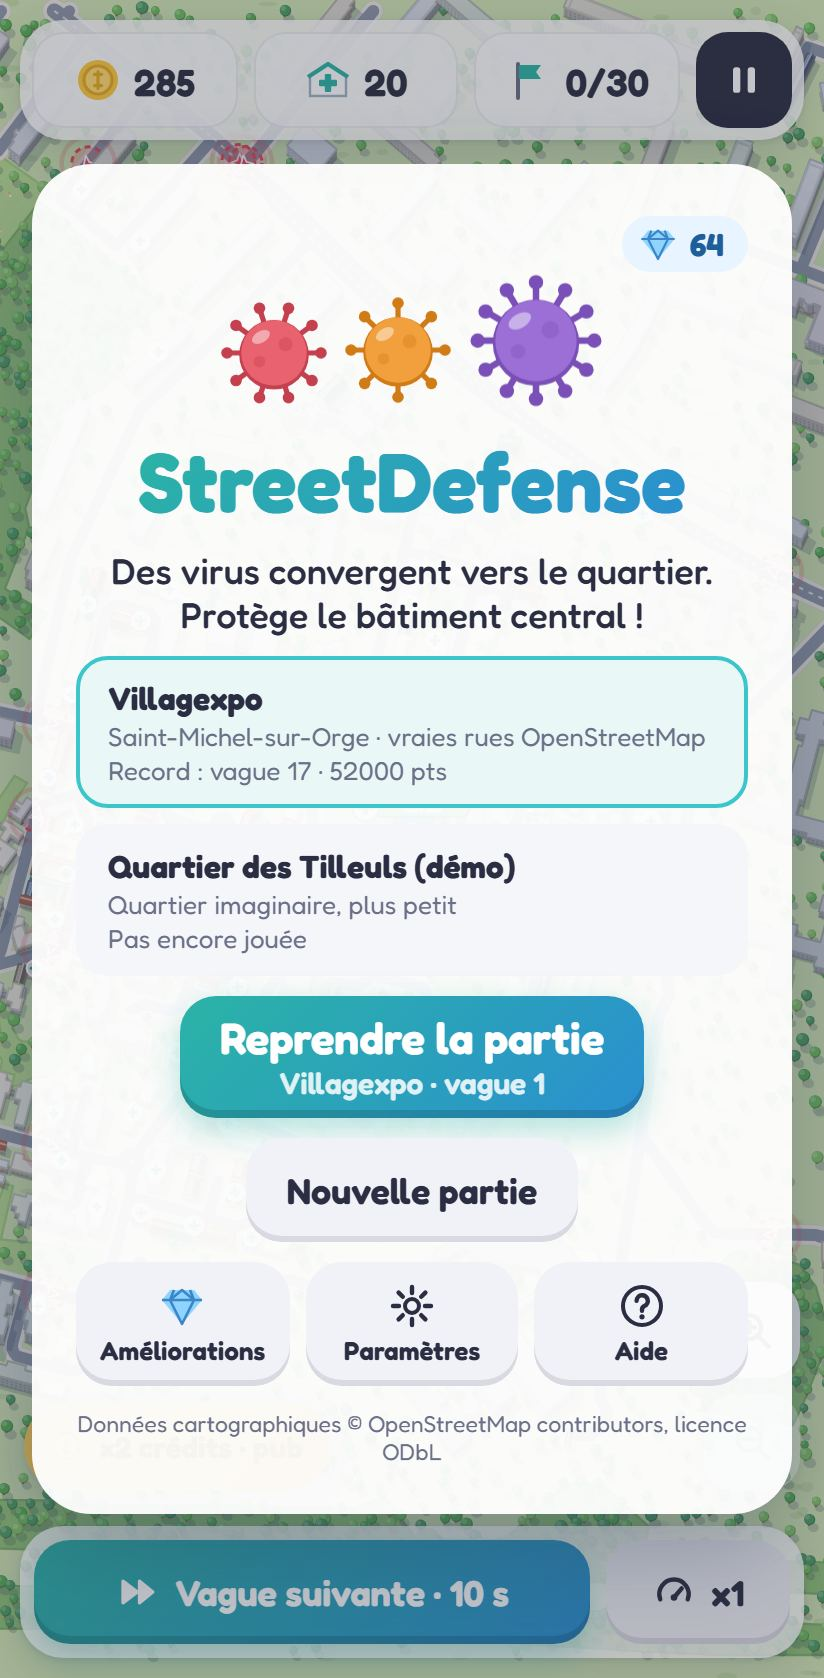
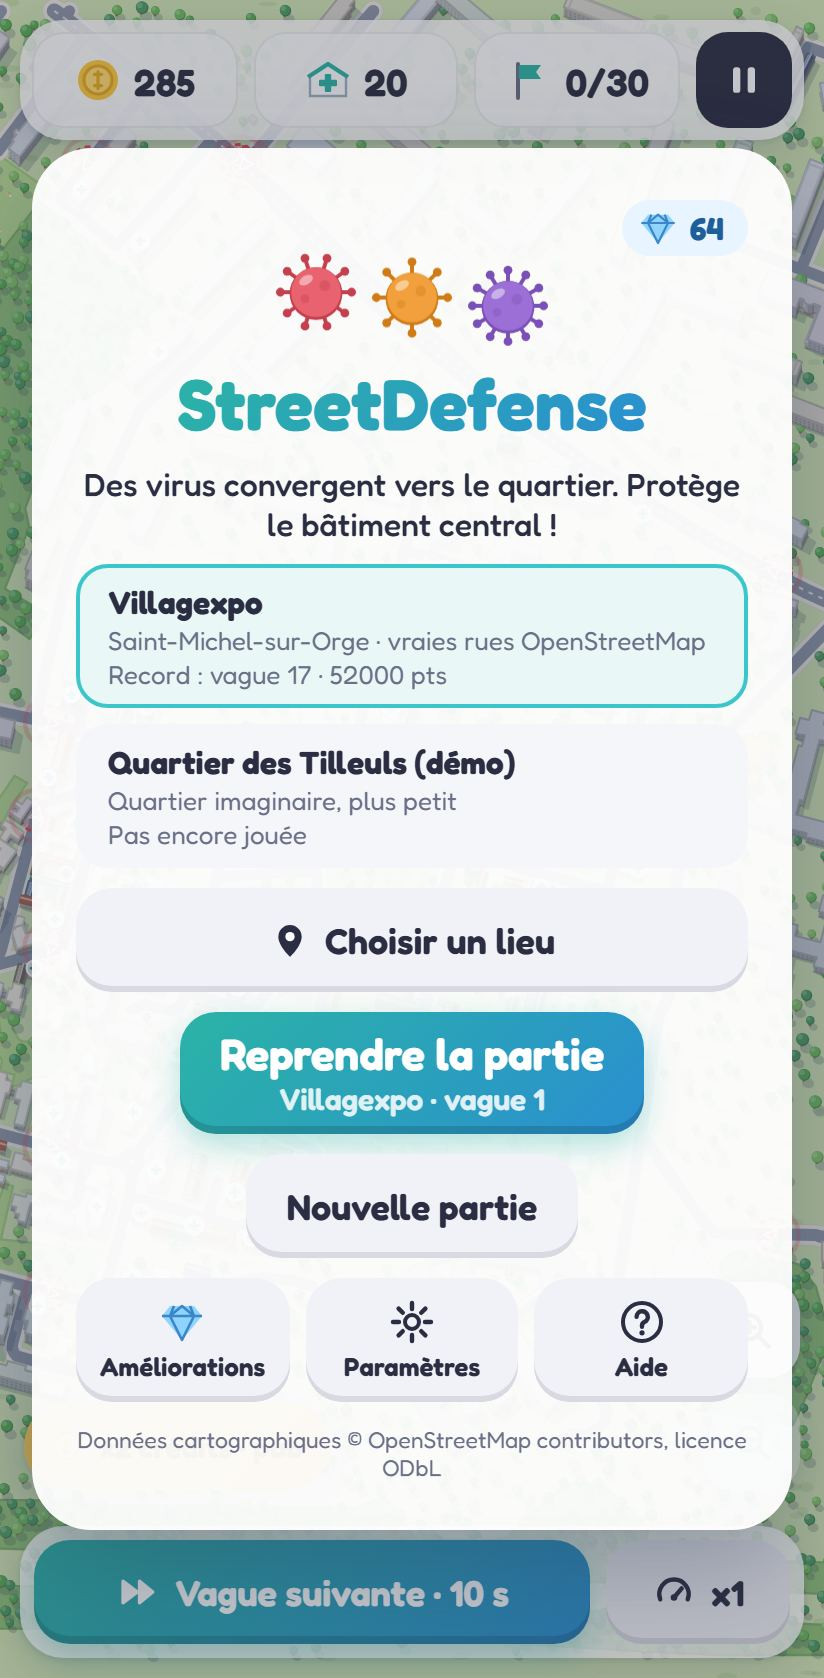
Captures du jalon 4 : choix du lieu, chargement, aperçu, carte créée
Les réponses de Nominatim et d'Overpass sont rejouées depuis le disque
(essai des 20 adresses s'il a été lancé, sinon l'import de Villagexpo) :
les captures ne dépendent pas du réseau. Configuration : section places
et osm.addressMaxDistance documentées ; commande test-places.

diff --git a/scripts/captures.ts b/scripts/captures.ts
@@ -4,12 +4,17 @@
 //
 //   npm run captures
 
-import { mkdir, writeFile } from 'node:fs/promises';
+import { createHash } from 'node:crypto';
+import { mkdir, readFile, writeFile } from 'node:fs/promises';
 import { dirname, join } from 'node:path';
 import { fileURLToPath } from 'node:url';
 import { chromium, devices, type Page } from 'playwright';
 import { preview } from 'vite';
 import type { DebugHooks } from '../src/app';
+import { loadConfig } from '../src/config';
+import { NOMINATIM_URL, OVERPASS_MIRRORS } from '../src/geo/osmClient';
+import { placeQuery } from '../src/geo/osmMap';
+import { dedupePlaces, placeFromNominatim, placeKey, placeMapId, type NominatimResult } from '../src/geo/places';
 
 const root = join(dirname(fileURLToPath(import.meta.url)), '..');
 const outDir = join(root, 'docs', 'captures');
@@ -50,6 +55,61 @@ async function playUntil(page: Page, until: string, options: { maxSteps?: number
     // early : on appelle les vagues en avance pour aller vite (elles se chevauchent alors).
     await page.evaluate(`(() => { const h = window.streetDefense; h.autoBuild(); ${early ? 'h.callNextWave();' : ''} h.fastForward(2); })()`);
   }
+}
+
+const sha1 = (text: string) => createHash('sha1').update(text).digest('hex').slice(0, 16);
+const placesCache = join(root, 'scripts', '.cache', 'places');
+
+async function cachedResponse(url: string): Promise<string | null> {
+  try {
+    return await readFile(join(placesCache, `${sha1(url)}.json`), 'utf8');
+  } catch {
+    return null;
+  }
+}
+
+/** Même adresse de recherche que l'appli (OsmClient). */
+const searchUrl = (q: string) =>
+  `${NOMINATIM_URL}/search?${new URLSearchParams({ q, limit: '5', format: 'jsonv2', addressdetails: '1', 'accept-language': 'fr' })}`;
+
+/** Lieu des captures : la place Bellecour si l'essai des 20 adresses l'a gardée, sinon Villagexpo. */
+async function captureQuery(): Promise<string> {
+  const config = loadConfig();
+  const query = 'Place Bellecour, Lyon';
+  const search = await cachedResponse(searchUrl(query));
+  if (!search) return 'Villagexpo, Saint-Michel-sur-Orge';
+  const target = dedupePlaces((JSON.parse(search) as NominatimResult[]).map((r) => placeFromNominatim(r, query)))[0]!;
+  const radius = config.places.defaultRadius;
+  const place = {
+    id: placeMapId(placeKey(target.center, radius)),
+    name: target.name,
+    center: target.center,
+    radius,
+    precise: target.precise,
+  };
+  const overpass = `${OVERPASS_MIRRORS[0]}?data=${encodeURIComponent(placeQuery(place, config))}`;
+  return (await cachedResponse(overpass)) ? query : 'Villagexpo, Saint-Michel-sur-Orge';
+}
+
+/**
+ * Rejoue Nominatim et Overpass depuis le disque (aucun appel réseau) : réponses de
+ * l'essai des 20 adresses, sinon celles de l'import de Villagexpo. Overpass répond
+ * en 2,5 s pour laisser voir l'écran de chargement.
+ */
+async function replayOsm(page: Page): Promise<void> {
+  await page.route(/nominatim\.openstreetmap\.org|\/api\/interpreter/, async (route) => {
+    const url = route.request().url();
+    const overpass = url.includes('/api/interpreter');
+    const fallback = join(root, 'scripts', '.cache', overpass ? 'villagexpo.overpass.json' : 'villagexpo.nominatim.json');
+    let body = await cachedResponse(url);
+    if (body === null) {
+      // L'import de Villagexpo garde un seul résultat Nominatim ; l'appli attend une liste.
+      const saved: unknown = JSON.parse(await readFile(fallback, 'utf8'));
+      body = JSON.stringify(overpass || Array.isArray(saved) ? saved : [saved]);
+    }
+    if (overpass) await new Promise((resolve) => setTimeout(resolve, 2500));
+    await route.fulfill({ status: 200, contentType: 'application/json', headers: { 'access-control-allow-origin': '*' }, body });
+  });
 }
 
 async function main(): Promise<void> {
@@ -160,6 +220,28 @@ async function main(): Promise<void> {
     await page.getByRole('button', { name: /crédits/ }).click();
     await page.waitForTimeout(400);
     await shot(page, '13-pub-test');
+
+    // Jalon 4 : choisir un lieu, chargement, aperçu du tracé, partie sur la carte créée.
+    const query = await captureQuery();
+    console.log(`  (lieu des captures : ${query})`);
+    await replayOsm(page);
+    await open(page, '');
+    await page.getByRole('button', { name: 'Choisir un lieu' }).click();
+    await page.getByRole('searchbox', { name: 'Adresse, rue ou lieu' }).fill(query);
+    await page.getByRole('button', { name: 'Chercher' }).click();
+    await page.locator('.place-result').first().waitFor();
+    await page.waitForTimeout(300);
+    await shot(page, '14-choix-du-lieu');
+    await page.locator('.place-result').first().click();
+    await page.waitForTimeout(900);
+    await shot(page, '15-chargement');
+    await page.locator('.map-preview').waitFor({ timeout: 60_000 });
+    await page.waitForTimeout(600);
+    await shot(page, '16-apercu');
+    report.place = await page.evaluate(() => document.querySelector('.preview-stats')?.textContent ?? '');
+    await page.getByRole('button', { name: 'Jouer ici' }).click();
+    await page.waitForTimeout(800);
+    await shot(page, '17-carte-creee');
 
     report.pageErrors = errors;
     await writeFile(join(outDir, 'rapport.json'), `${JSON.stringify(report, null, 2)}\n`);

diff --git a/src/config/README.md b/src/config/README.md
@@ -126,7 +126,7 @@ Construction d'une carte à partir d'OpenStreetMap (`npm run import-map`) ou d'u
 
 | Champ | Rôle |
 |---|---|
-| `zoneWidth`, `zoneHeight` | Zone de jeu (m), centrée sur le lieu (500 × 900, portrait ; le joueur zoome pour voir le détail). |
+| `zoneWidth`, `zoneHeight` | Zone de jeu (m) pour le rayon par défaut (`places.defaultRadius`), centrée sur le lieu (500 × 900, portrait ; le joueur zoome pour voir le détail). Elle suit le rayon choisi. |
 | `decorMargin` | Décor dessiné autour de la zone (m). Au moins `entryLead`, pour que l'arrivée des virus soit dessinée. |
 | `graphMargin` | Le réseau des rues est construit sur la zone plus cette marge (220 m) : les virus arrivent par les rues qui viennent de l'extérieur. Au moins `entryLead`. |
 | `entryLead` | Les virus apparaissent à cette distance avant le bord de la zone, sur la rue qui y entre (60 m). Une entrée est un bout du réseau élargi situé au moins à `entryLead` / 2 hors de la zone. |
@@ -142,11 +142,29 @@ Construction d'une carte à partir d'OpenStreetMap (`npm run import-map`) ou d'u
 | `annexMaxArea`, `houseMaxArea`, `commercialMinArea` | Sans étiquette précise : abri sous `annexMaxArea`, maison sous `houseMaxArea`, immeuble sous `commercialMinArea`, grand bâtiment au-delà (m²). |
 | `levelHeight` | Hauteur d'un niveau (3 m). |
 | `defaultHeights` | Hauteur des murs (m) par type quand OSM ne donne ni hauteur ni niveaux. Elle donne le bonus de portée. |
-| `gableMinRectangularity` | Une maison a un toit à deux pans si son emprise remplit au moins cette part de son rectangle englobant. |
+| `gableMinRectangularity` | Une maison ou un lieu de culte a un toit à deux pans si son emprise remplit au moins cette part de son rectangle englobant. |
 | `baseProximity` | Choix de la base : score = emprise × hauteur / (1 + (distance au centre / `baseProximity`)²). |
+| `addressMaxDistance` | Adresse précise (avec numéro) : la base est le bâtiment qui contient le point géocodé, ou le plus proche à moins de cette distance (25 m). |
 | `baseMaxStreetDistance` | La base doit être à moins de cette distance d'une rue (m). |
 | `paletteCount` | Nombre de variantes de couleurs des bâtiments. |
 | `trees` | Arbres décoratifs : tentatives par hectare (`density`, `parkDensity`, `woodDensity`), écart minimal (`spacing`), rayon du feuillage (`radius`), variantes de couleurs (`paletteCount`). |
+
+## `places`
+
+Cartes créées dans l'appli à partir d'une adresse, d'un lieu ou de la position du joueur (écran « Choisir un lieu »).
+
+| Champ | Rôle |
+|---|---|
+| `radii` | Rayons proposés au joueur (300, 400, 500 m). La zone de jeu vaut `osm.zoneWidth` × `osm.zoneHeight` multipliée par rayon / `defaultRadius`. |
+| `defaultRadius` | Rayon choisi au départ (400 m), un des `radii`. |
+| `maxRadius`, `radiusStep` | Lieu sans carte jouable : le rayon est agrandi de `radiusStep` (100 m) jusqu'à `maxRadius` (600 m), avec une nouvelle requête Overpass à chaque fois ; ensuite, quartier imaginaire. |
+| `minAverageRouteLength` | Longueur moyenne minimale des itinéraires (600 m, cahier des charges) ; en dessous, la zone est agrandie. |
+| `geocodeResults` | Résultats demandés à Nominatim (5), doublons retirés. |
+| `nominatimInterval` | Écart minimal entre deux requêtes Nominatim (1,1 s ; règle d'usage : une par seconde). |
+| `overpassTimeout` | Temps de calcul accordé au serveur Overpass (20 s). |
+| `requestTimeout` | Attente maximale d'une réponse (25 s) avant d'essayer le serveur suivant. |
+| `cacheMaxMaps` | Cartes gardées sur l'appareil (20) ; les moins récemment jouées partent d'abord. |
+| `fallbackAttempts` | Graines essayées pour obtenir un quartier imaginaire jouable (8). |
 
 ## `progression`
 

diff --git a/CLAUDE.md b/CLAUDE.md
@@ -59,6 +59,7 @@ npm run build    # vérification TypeScript (code + scripts) + build de producti
 npm run import-map  # réimporte la carte réelle (--offline : rejoue scripts/.cache)
 npm run simulate    # équilibrage : parties automatiques sur 20 quartiers types
 npm run captures    # captures Playwright (Pixel 7) dans docs/captures/
+npm run test-places # jalon 4 : 20 adresses variées (réseau ; --offline rejoue scripts/.cache/places)
 npx cap sync android                   # après le build : copie dist/ dans le projet Android
 cd android && ./gradlew assembleDebug  # APK de test (JDK 21 + SDK Android) ; la CI le construit aussi
 ```
